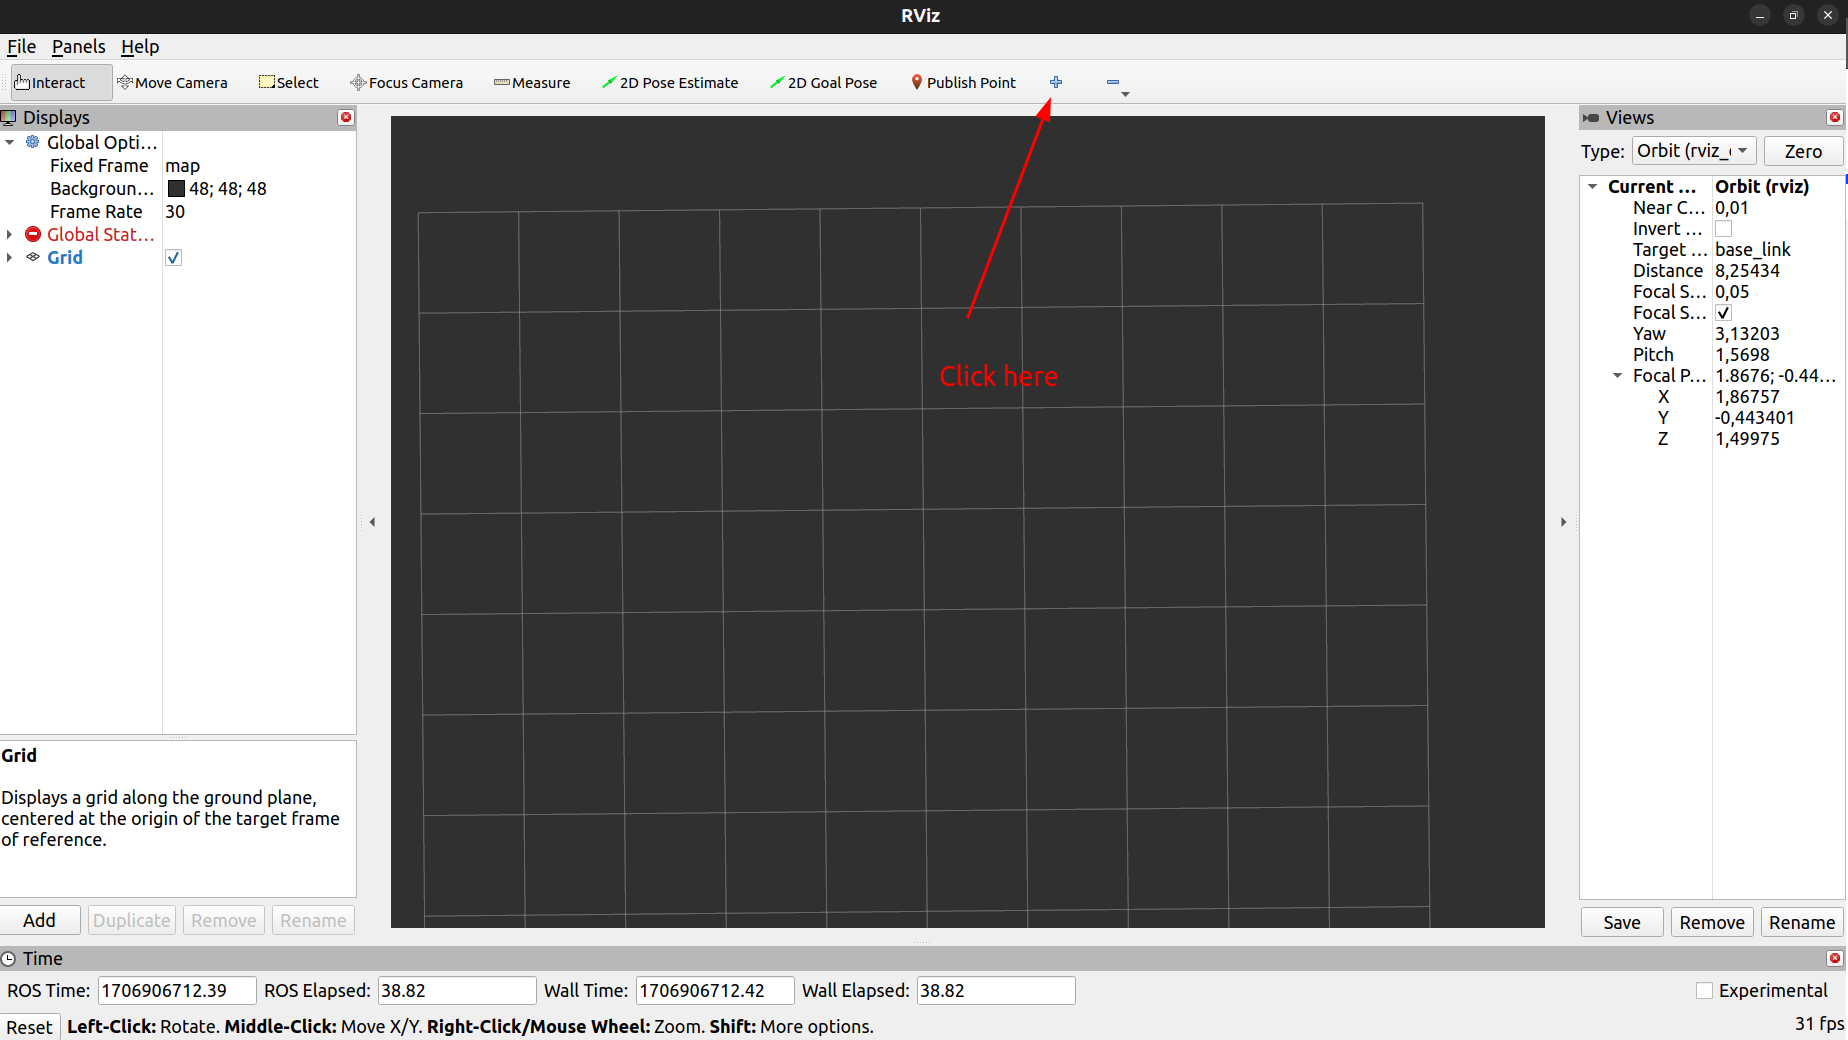
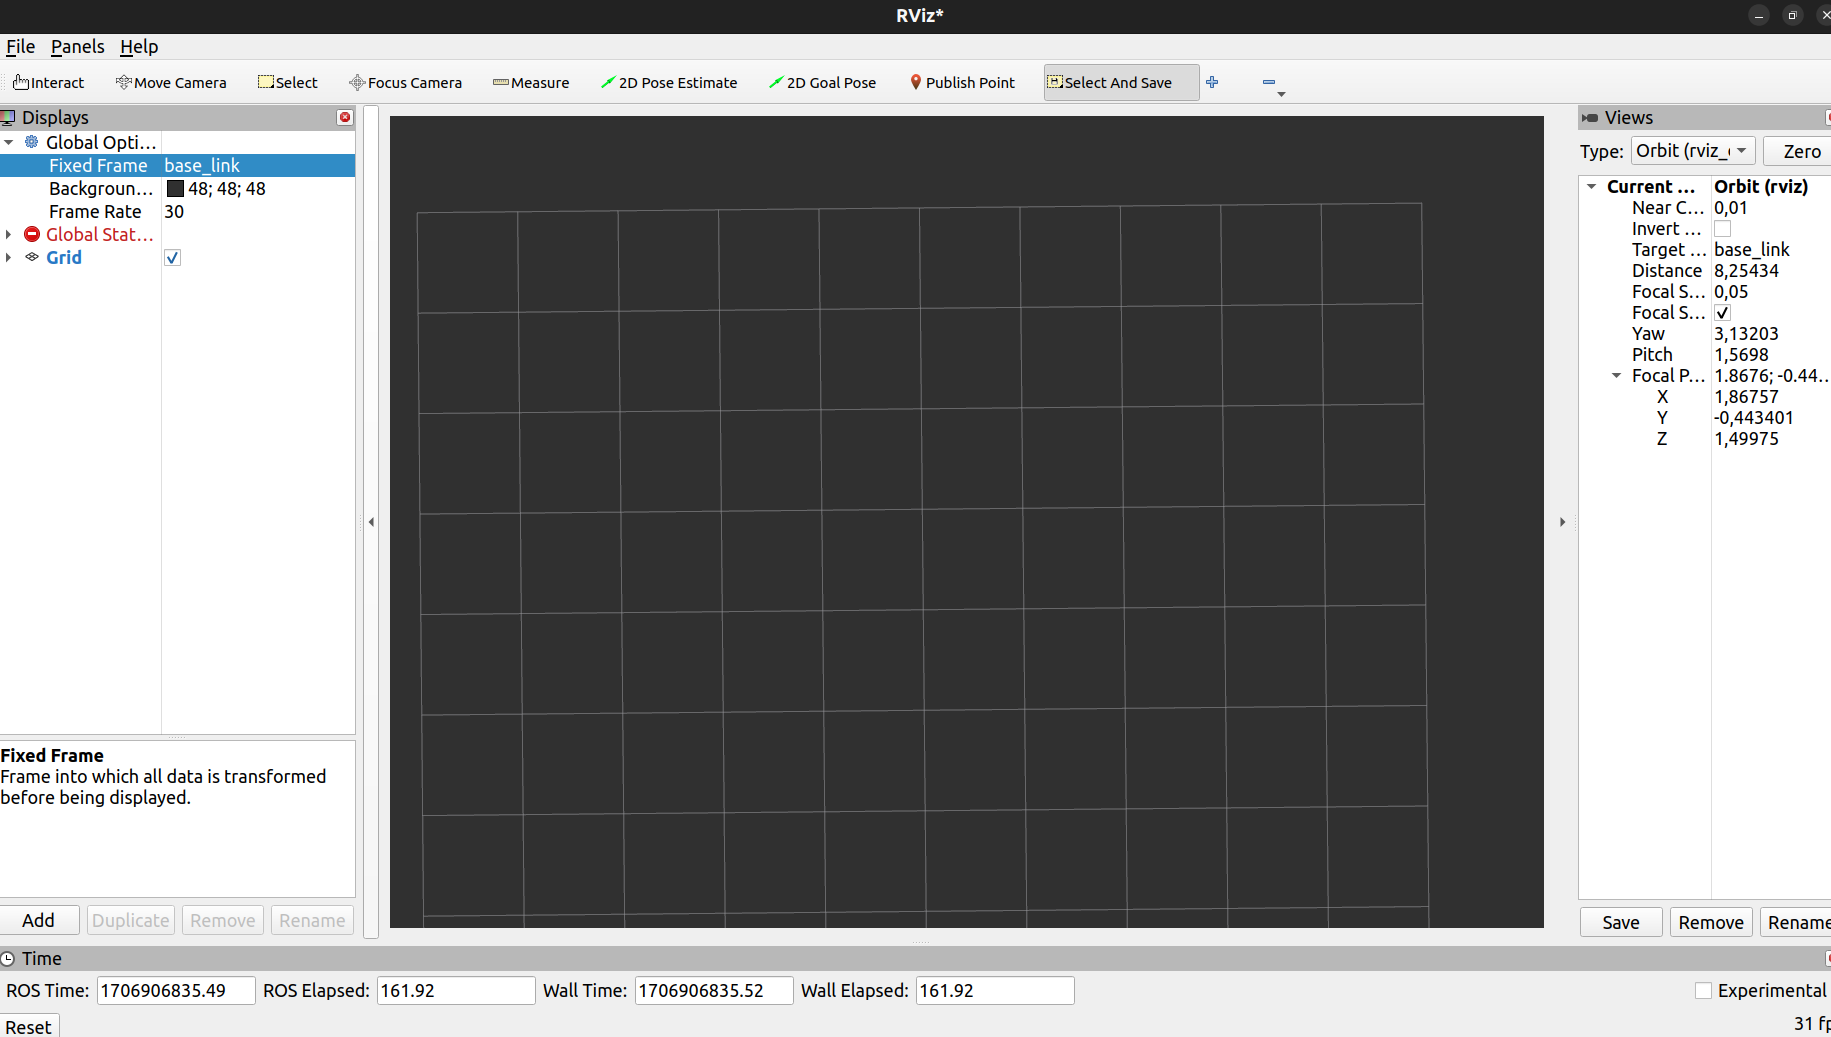
Added rviz config

diff --git a/README.md b/README.md
@@ -13,7 +13,7 @@ rosdep update
 ```
 mkdir -p rviz2_plugin_ws/src
 git clone https://github.com/delipl/select_and_save_plugin rviz2_plugin_ws/src -b humble
-cd select_and_save_plugin
+cd rviz2_plugin_ws
 rosdep install --from-paths src --ignore-src --rosdistro humble -y
 colcon build
 ```
@@ -22,17 +22,13 @@ colcon build
 
 ```
 source install/setup.bash
-rviz2
+rviz2 -d src/select_and_save_plugin/config/velodyne.rviz
 ```
 
-Add the `SelectAndSave` tool from tools bar:
-![](.docs/1.png)
-![](.docs/2.png)
-
 Select the `SelectAndSave` tool from tools bar:
-![](.docs/3.png)
+![](.docs/1.png)
 
 Select a region of interest from pointcloud published on `/velodyne_points` topic:
-![](.docs/4.png)
+![](.docs/2.png)
 
 Press `p` to save data to the yaml file  `rviz_selected_supports.yaml` and then press `n` to go to call `PlayNext` from `ros2bag_player`.
